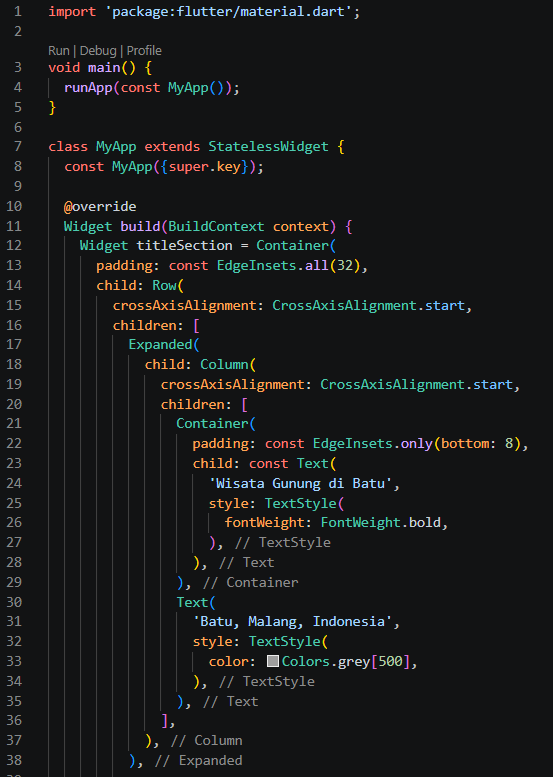
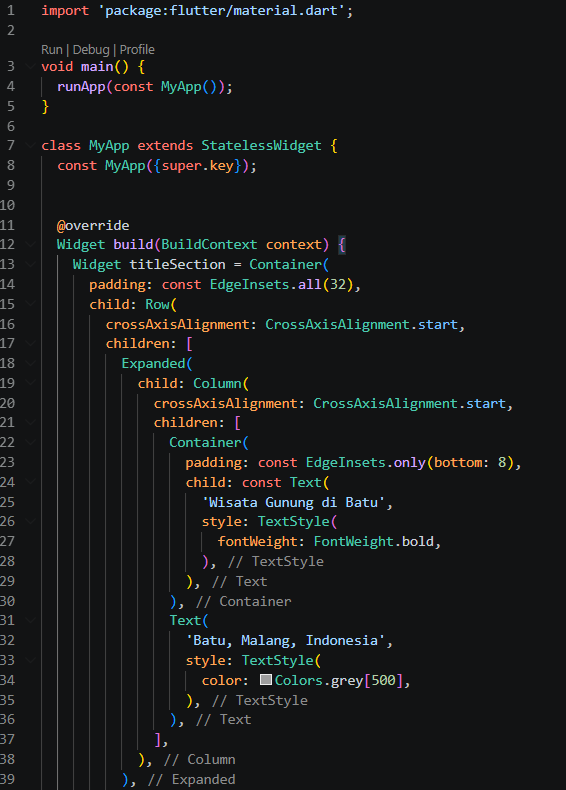
push

Changed region(s): [[0.0, 0.0309, 0.953, 1.0], [0.0615, 0.0, 0.6456, 0.1236], [0.0615, 0.1236, 0.0922, 0.1544]]

diff --git a/06 Layout dan Navigasi/README.md b/06 Layout dan Navigasi/README.md
@@ -14,14 +14,47 @@
 
 ## Praktikum 1
 
-langkah 1 Buat Project Baru:
+Langkah 1 Buat Project Baru:
+
 ![Screenshoot](Praktikum1/langkah1.png)
 
-langkah 2 Buka file lib/main.dart:
+Langkah 2 Buka file lib/main.dart:
 
-langkah 3
+![Screenshoot](Praktikum1/langkah2.png)
 
-langkah 4:
+![Screenshoot](Praktikum1/langkah2run.jpg)
+
+Langkah 3: Identifikasi layout diagram
+
+Langkah 4: Implementasi title row
+
+![Screenshoot](Praktikum1/langkah41.png)
+
+![Screenshoot](Praktikum1/langkah42.png)
+
+![Screenshoot](Praktikum1/langkah4run.jpg)
+
+## Praktikum 2
+
+Langkah 1: Buat method Column _buildButtonColumn
+
+![Screenshoot](Praktikum2/langkah1.png)
+
+Langkah 2: Buat widget buttonSection
+
+![Screenshoot](Praktikum2/langkah2.png)
+
+Langkah 3: Tambah button section ke body
+
+![Screenshoot](Praktikum2/langkah3.png)
+
+Hasil Run:
+
+![Screenshoot](Praktikum2/prak2run.jpg)
+
+## Praktikum 3
+
+
 
 
 